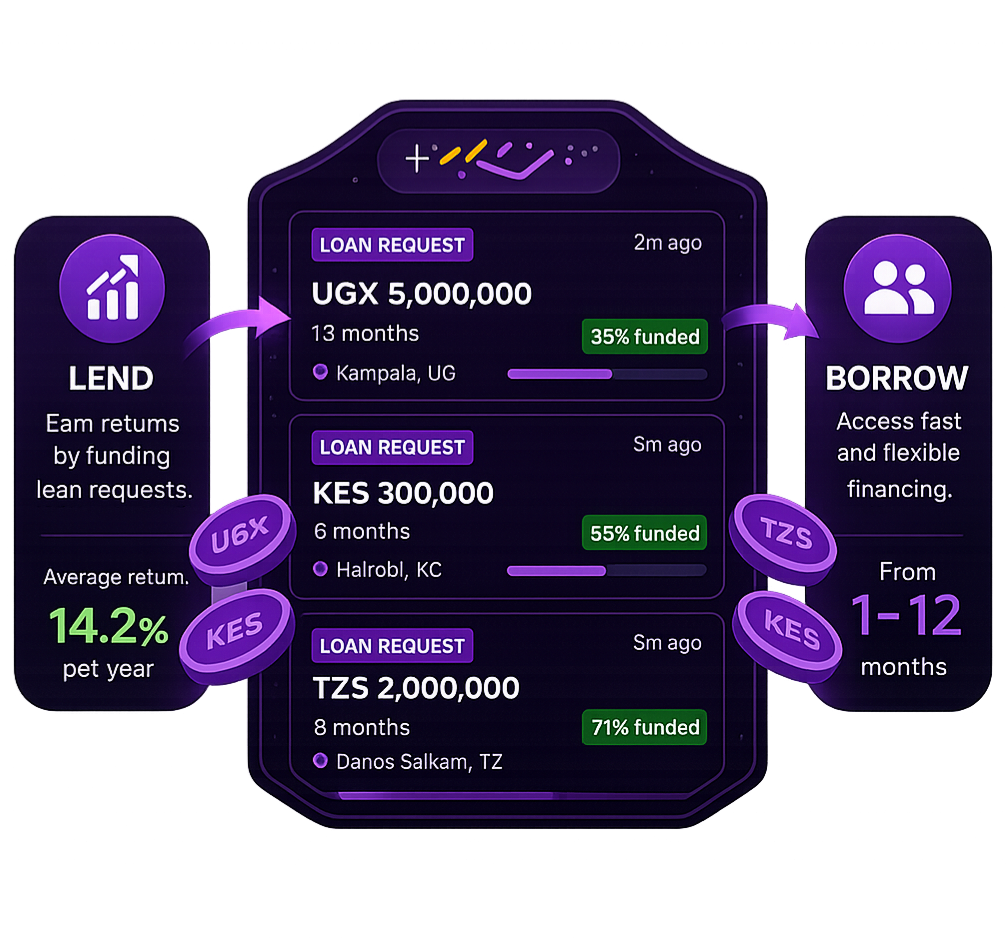
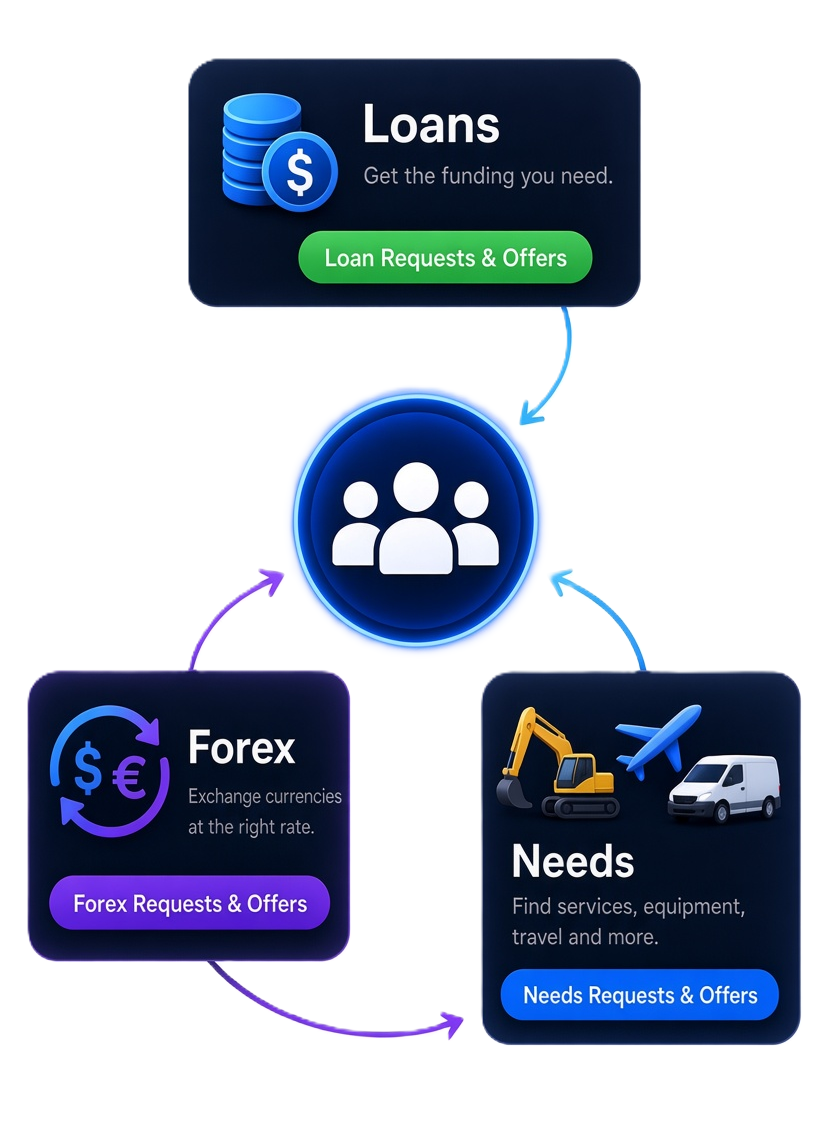
feat: Update welcome title and tagline, optimize image loading in welcome screens

diff --git a/lib/features/listings/presentation/pages/my_listings_page.dart b/lib/features/listings/presentation/pages/my_listings_page.dart
@@ -477,7 +477,6 @@ class _ForexRequestCard extends StatelessWidget {
                 ],
               ),
               const SizedBox(height: 10),
-              const SizedBox(height: 9),
               Container(
                 width: double.infinity,
                 padding:
@@ -493,69 +492,59 @@ class _ForexRequestCard extends StatelessWidget {
                         : AppColors.borderLight,
                   ),
                 ),
-                child: LayoutBuilder(
-                  builder: (context, constraints) {
-                    final available = constraints.maxWidth;
-                    final leftWidth = available * 0.48;
-                    final rightWidth = available - leftWidth - 52;
-
-                    return Row(
-                      children: [
-                        SizedBox(
-                          width: leftWidth,
-                          child: Flexible(
-                            child: Text(
-                              heldAmount,
-                              maxLines: 1,
-                              overflow: TextOverflow.ellipsis,
-                              style: theme.textTheme.headlineSmall?.copyWith(
-                                color: theme.colorScheme.onSurface,
-                                fontSize: 17,
-                                fontWeight: FontWeight.w700,
-                                height: 1.05,
-                              ),
+                child: Row(
+                  children: [
+                    Expanded(
+                      flex: 5,
+                      child: Text(
+                        heldAmount,
+                        maxLines: 1,
+                        overflow: TextOverflow.ellipsis,
+                        style: theme.textTheme.headlineSmall?.copyWith(
+                          color: theme.colorScheme.onSurface,
+                          fontSize: 17,
+                          fontWeight: FontWeight.w700,
+                          height: 1.05,
+                        ),
+                      ),
+                    ),
+                    const SizedBox(width: 8),
+                    const Icon(
+                      Icons.arrow_forward_rounded,
+                      size: 16,
+                      color: accent,
+                    ),
+                    const SizedBox(width: 6),
+                    Expanded(
+                      flex: 5,
+                      child: Column(
+                        crossAxisAlignment: CrossAxisAlignment.start,
+                        mainAxisSize: MainAxisSize.min,
+                        children: [
+                          Text(
+                            'Projected Money',
+                            style: TextStyle(
+                              fontSize: 10,
+                              fontWeight: FontWeight.w600,
+                              color: mutedColor,
                             ),
                           ),
-                        ),
-                        const SizedBox(width: 8),
-                        const Icon(
-                          Icons.arrow_forward_rounded,
-                          size: 16,
-                          color: accent,
-                        ),
-                        const SizedBox(width: 6),
-                        SizedBox(
-                          width: rightWidth.clamp(70.0, double.infinity),
-                          child: Column(
-                            crossAxisAlignment: CrossAxisAlignment.start,
-                            mainAxisSize: MainAxisSize.min,
-                            children: [
-                              Text(
-                                'Projected Money',
-                                style: TextStyle(
-                                  fontSize: 10,
-                                  fontWeight: FontWeight.w600,
-                                  color: mutedColor,
-                                ),
-                              ),
-                              const SizedBox(height: 2),
-                              Text(
-                                projectedAmount,
-                                maxLines: 1,
-                                overflow: TextOverflow.ellipsis,
-                                style: theme.textTheme.headlineSmall?.copyWith(
-                                  color: theme.colorScheme.onSurface,
-                                  fontSize: 17,
-                                  fontWeight: FontWeight.w700,
-                                  height: 1.05,
-                                ),
-                              ),
-                            ],
+                          const SizedBox(height: 2),
+                          Text(
+                            projectedAmount,
+                            maxLines: 1,
+                            overflow: TextOverflow.ellipsis,
+                            style: theme.textTheme.headlineSmall?.copyWith(
+                              color: theme.colorScheme.onSurface,
+                              fontSize: 17,
+                              fontWeight: FontWeight.w700,
+                              height: 1.05,
+                            ),
                           ),
-                        ),
-                      ],
-                    );
-                  },
+                        ],
+                      ),
+                    ),
+                  ],
                 ),
               ),
               const SizedBox(height: 10),

diff --git a/lib/features/auth/presentation/pages/welcome_page.dart b/lib/features/auth/presentation/pages/welcome_page.dart
@@ -375,25 +375,11 @@ class WelcomePage extends StatelessWidget {
                   Expanded(
                     child: Padding(
                       padding: const EdgeInsets.symmetric(horizontal: 16),
-                      child: ShaderMask(
-                        shaderCallback: (rect) => const LinearGradient(
-                          begin: Alignment.topCenter,
-                          end: Alignment.bottomCenter,
-                          colors: [
-                            Colors.transparent,
-                            Colors.white,
-                            Colors.white,
-                            Colors.transparent,
-                          ],
-                          stops: [0.0, 0.25, 0.75, 1.0],
-                        ).createShader(rect),
-                        blendMode: BlendMode.dstIn,
-                        child: Image.asset(
-                          isDark
-                              ? 'assets/images/hero_illustration_dark.png'
-                              : 'assets/images/hero_illustration_light.png',
-                          fit: BoxFit.contain,
-                        ),
+                      child: Image.asset(
+                        isDark
+                            ? 'assets/images/hero_illustration_dark.png'
+                            : 'assets/images/hero_illustration_light.png',
+                        fit: BoxFit.contain,
                       ),
                     ),
                   ),

diff --git a/lib/features/auth/presentation/pages/register/welcome_screen.dart b/lib/features/auth/presentation/pages/register/welcome_screen.dart
@@ -111,25 +111,11 @@ class WelcomeScreen extends StatelessWidget {
                 Expanded(
                   child: Padding(
                     padding: const EdgeInsets.symmetric(horizontal: 16),
-                    child: ShaderMask(
-                      shaderCallback: (rect) => const LinearGradient(
-                        begin: Alignment.topCenter,
-                        end: Alignment.bottomCenter,
-                        colors: [
-                          Colors.transparent,
-                          Colors.white,
-                          Colors.white,
-                          Colors.transparent,
-                        ],
-                        stops: [0.0, 0.25, 0.75, 1.0],
-                      ).createShader(rect),
-                      blendMode: BlendMode.dstIn,
-                      child: Image.asset(
-                        isDark
-                            ? 'assets/images/hero_illustration_dark.png'
-                            : 'assets/images/hero_illustration_light.png',
-                        fit: BoxFit.contain,
-                      ),
+                    child: Image.asset(
+                      isDark
+                          ? 'assets/images/hero_illustration_dark.png'
+                          : 'assets/images/hero_illustration_light.png',
+                      fit: BoxFit.contain,
                     ),
                   ),
                 ),

diff --git a/lib/l10n/app_localizations_en.dart b/lib/l10n/app_localizations_en.dart
@@ -12,7 +12,7 @@ class AppLocalizationsEn extends AppLocalizations {
   String get appTitle => 'Nipanze';
 
   @override
-  String get welcomeTitle => 'Borrow. Lend. Grow.';
+  String get welcomeTitle => 'Need. Connect. Grow.';
 
   @override
   String get welcomeTagline => 'Checkout local listings';

diff --git a/lib/l10n/app_localizations.dart b/lib/l10n/app_localizations.dart
@@ -113,7 +113,7 @@ abstract class AppLocalizations {
   /// No description provided for @welcomeTitle.
   ///
   /// In en, this message translates to:
-  /// **'Borrow. Lend. Grow.'**
+  /// **'Need. Connect. Grow.'**
   String get welcomeTitle;
 
   /// No description provided for @welcomeTagline.
